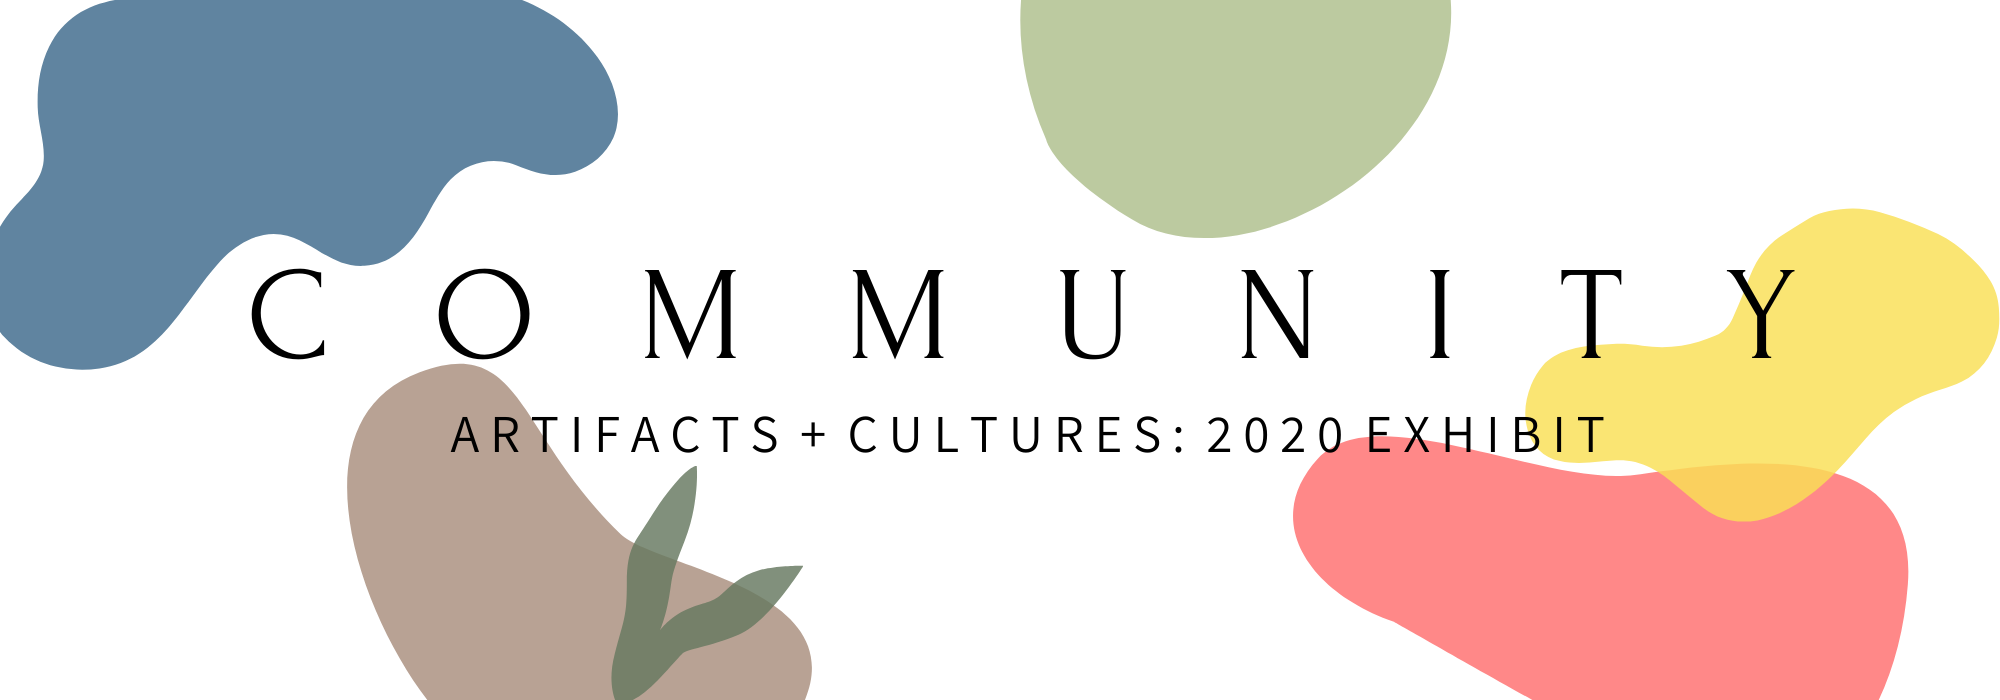
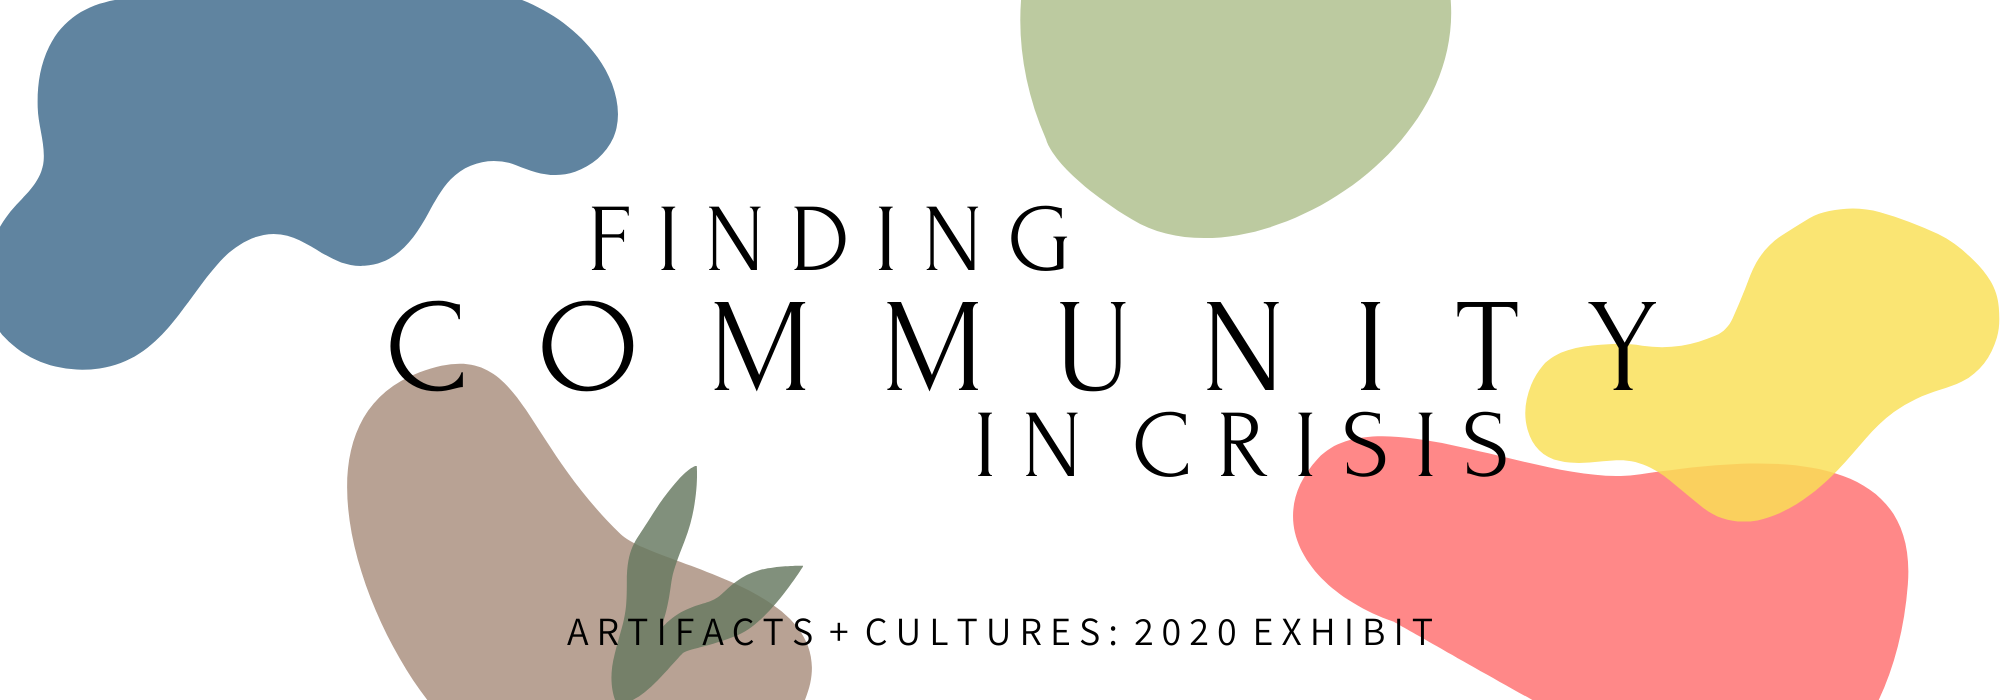
Updating header w/new title and fixing formatting

diff --git a/Kobe.html b/Kobe.html
@@ -15,16 +15,8 @@
   <section class="u-full-width" id="header">
     <div class="container">
       <div class="row">
-        <div class="twelve columns">
-          <header>
-            <div class="container clearfix">
-            <p>
-            <br>
-              <h4 id="logo">ARTIFACTS <em>and</em> CULTURES: 2020 Exhibit</h4>
-			</p>
-			<p>
-              <h5>Group 3: Community</h5>
-			</p>
+        <div class="container clearfix">
+			<img class="u-max-full-width" src="images/header.png">
             </div>
 						<div class="container">
 				<button class="button button-primary"><a href="index.html">Home</a></button> 
@@ -35,22 +27,14 @@
 				<button class="button button-thispage"><a href="Kobe.html">K. Bryant Memorial</a></button>
 				<button class="button button-primary"><a href="sourdough.html">Sourdough</a></button>
 			</div>
-          </header>
         </div>
       </div>
     </div>
   </section>
   <br>
-  <br>
-  <br>
-  <br>
-  <br>
-  <br>
-  <br>
-  <br>
-  <br>
-  <br>
-  <br>
+
+
+
   
   
  

diff --git a/screenshot.html b/screenshot.html
@@ -16,16 +16,10 @@
     <div class="container">
       <div class="row">
         <div class="twelve columns">
-          <header>
-            <div class="container clearfix">
-            <p>
-            <br>
-              <h4 id="logo">ARTIFACTS <em>and</em> CULTURES: 2020 Exhibit</h4>
-			</p>
-			<p>
-              <h5>Group 3: Community</h5>
-			</p>
+           <div class="container clearfix">
+			<img class="u-max-full-width" src="images/header.png">
             </div>
+
 						<div class="container">
 			    <button class="button button-primary"><a href="index.html">Home</a></button> 
 				<button class="button button-primary"><a href="birthday.html">Birthday</a></button>
@@ -36,22 +30,12 @@
 				<button class="button button-primary"><a href="sourdough.html">Sourdough</a></button>
 
 			</div>
-          </header>
         </div>
       </div>
     </div>
   </section>
   <br>
-  <br>
-  <br>
-  <br>
-  <br>
-  <br>
-  <br>
-  <br>
-  <br>
-  <br>
-  <br>
+
   
   
     <section class="u-full-width" id="content">

diff --git a/sourdough.html b/sourdough.html
@@ -16,15 +16,8 @@
     <div class="container">
       <div class="row">
         <div class="twelve columns">
-          <header>
             <div class="container clearfix">
-            <p>
-            <br>
-              <h4 id="logo">ARTIFACTS <em>and</em> CULTURES: 2020 Exhibit</h4>
-			</p>
-			<p>
-              <h5>Group 3: Community</h5>
-			</p>
+			<img class="u-max-full-width" src="images/header.png">
             </div>
 						<div class="container">
 			    <button class="button button-primary"><a href="index.html">Home</a></button> 
@@ -36,22 +29,13 @@
 				<button class="button button-thispage"><a href="sourdough.html">Sourdough</a></button>
 
 			</div>
-          </header>
+
         </div>
       </div>
     </div>
   </section>
   <br>
-  <br>
-  <br>
-  <br>
-  <br>
-  <br>
-  <br>
-  <br>
-  <br>
-  <br>
-  <br>
+
   
   
   

diff --git a/notebook.html b/notebook.html
@@ -16,15 +16,8 @@
     <div class="container">
       <div class="row">
         <div class="twelve columns">
-          <header>
             <div class="container clearfix">
-            <p>
-            <br>
-              <h4 id="logo">ARTIFACTS <em>and</em> CULTURES: 2020 Exhibit</h4>
-			</p>
-			<p>
-              <h5>Group 3: Community</h5>
-			</p>
+			<img class="u-max-full-width" src="images/header.png">
             </div>
 			<div class="container">
 			    <button class="button button-primary"><a href="index.html">Home</a></button> 
@@ -36,22 +29,12 @@
 				<button class="button button-primary"><a href="sourdough.html">Sourdough</a></button>
 
 			</div>
-          </header>
         </div>
       </div>
     </div>
   </section>
   <br>
-  <br>
-  <br>
-  <br>
-  <br>
-  <br>
-  <br>
-  <br>
-  <br>
-  <br>
-  <br>
+
   
   
 

diff --git a/birthday.html b/birthday.html
@@ -15,16 +15,8 @@
   <section class="u-full-width" id="header">
     <div class="container">
       <div class="row">
-        <div class="twelve columns">
-          <header>
             <div class="container clearfix">
-            <p>
-            <br>
-              <h4 id="logo">ARTIFACTS <em>and</em> CULTURES: 2020 Exhibit</h4>
-			</p>
-			<p>
-              <h5>Group 3: Community</h5>
-			</p>
+			<img class="u-max-full-width" src="images/header.png">
             </div>
 						<div class="container">
 			   <button class="button button-primary"><a href="index.html">Home</a></button> 
@@ -39,19 +31,10 @@
           </header>
         </div>
       </div>
-    </div>
+
   </section>
-  <br>
-  <br>
-  <br>
-  <br>
-  <br>
-  <br>
-  <br>
-  <br>
-  <br>
-  <br>
-  <br>
+
+
   
   
   <section class="u-full-width" id="content">

diff --git a/Borjas.html b/Borjas.html
@@ -16,15 +16,8 @@
     <div class="container">
       <div class="row">
         <div class="twelve columns">
-          <header>
             <div class="container clearfix">
-            <p>
-            <br>
-              <h4 id="logo">ARTIFACTS <em>and</em> CULTURES: 2020 Exhibit</h4>
-			</p>
-			<p>
-              <h5>Group 3: Community</h5>
-			</p>
+			<img class="u-max-full-width" src="images/header.png">
             </div>
 						<div class="container">
 			    <button class="button button-primary"><a href="index.html">Home</a></button> 
@@ -42,17 +35,8 @@
     </div>
   </section>
   <br>
-  <br>
-  <br>
-  <br>
-  <br>
-  <br>
-  <br>
-  <br>
-  <br>
-  <br>
-  <br>
-  
+
+
   
 
  <section class="u-full-width" id="content">

diff --git a/index.html b/index.html
@@ -16,7 +16,6 @@
     <div class="container">
       <div class="row">
         <div class="twelve columns">
-          <header>
             <div class="container clearfix">
 			<img class="u-max-full-width" src="images/header.png">
             </div>
@@ -36,23 +35,6 @@
       </div>
     </div>
   </section>
-  <br>
-  <br>
-  <br>
-  <br>
-  <br>
-    <br>
-  <br>
-  <br>
-  <br>
-  <br>
-    <br>
-  <br>
-    <br>
-  <br>
-  <br>
-  <br>
-	<br>
   <br>
 
   
